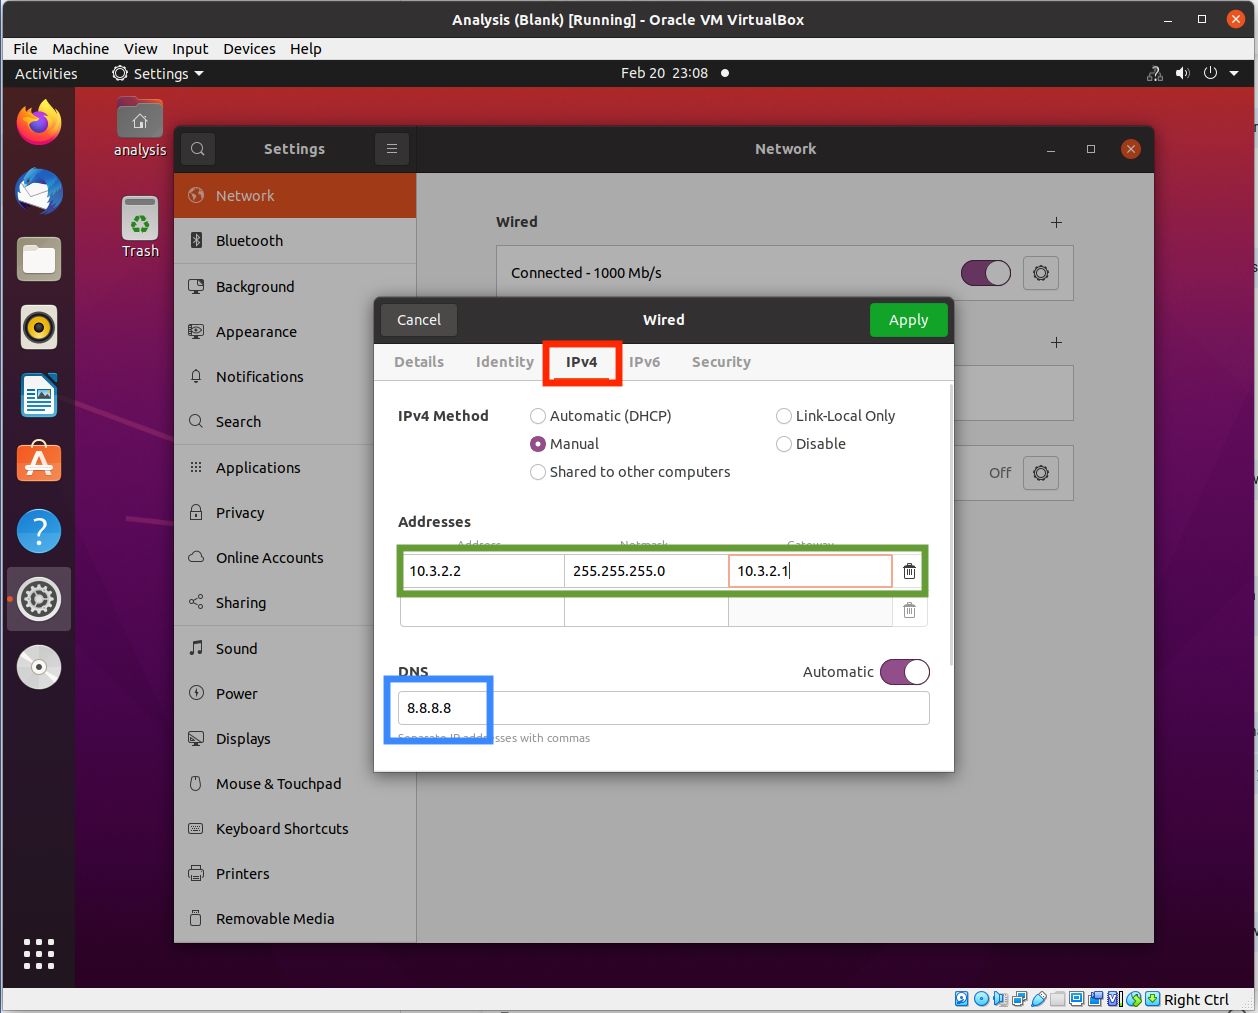
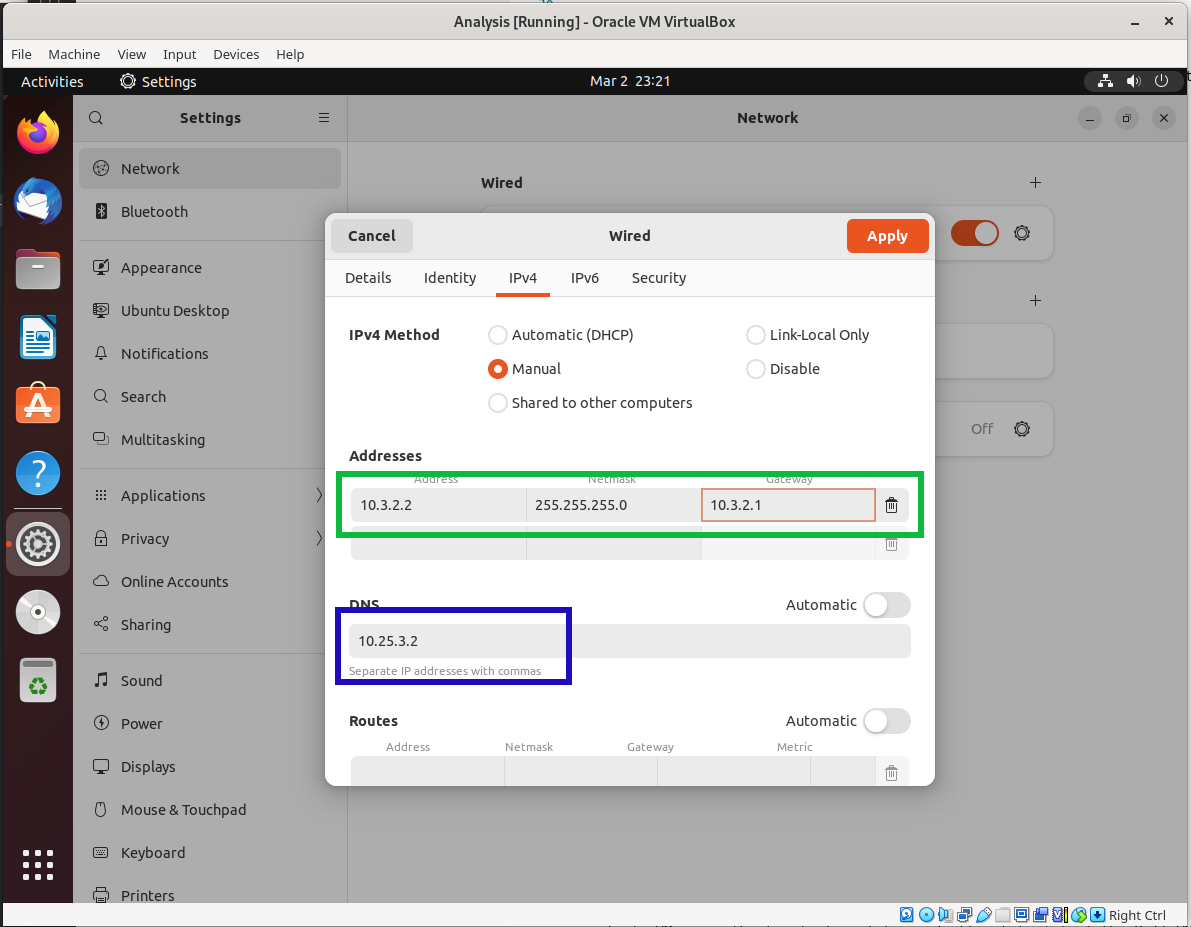
Update Network Lab Configuration to use UC's DNS servers.

diff --git a/NetworkLabConfiguration/LabConfiguration.md b/NetworkLabConfiguration/LabConfiguration.md
@@ -54,11 +54,13 @@ Click on the gear icon next to the label _Connected - 1000 Mbps_ (indicated in r
 
 ![TODO](./images/ubuntunetworksettings.png)
 
-Click on the _IPv4_ tab (indicated in red in the following image). In the _Addresses_ section, make the IP address be 10.3.2.2, the netmask be 255.255.255.0 and the gateway be 10.3.2.1 (indicated in green in the following image). Finally, set 8.8.8.8 as the DNS server (indicated in blue in the following image). When you are done, press _Apply_ (the green button in the upper-right portion of the screen). 
+Click on the _IPv4_ tab (indicated in red in the following image). In the _Addresses_ section, make the IP address be 10.3.2.2, the netmask be 255.255.255.0 and the gateway be 10.3.2.1 (indicated in green in the following image). Finally, set 10.25.3.2 as the DNS server (indicated in blue in the following image). When you are done, press _Apply_ (the green button in the upper-right portion of the screen). 
 
 ![TODO](./images/ubuntunetworkipv4.png)
 
-Setting the values the way that we did above will assign the analysis machine the 10.3.2.2 IPv4 address on the 10.3.2.0/24 network. It will set the analysis VM's router to 10.3.2.1, the Kali VM (we will configure the Kali VM next). These settings configure the Kali VM to use Google's anycast server at 8.8.8.8 to perform DNS resolution.
+Setting the values the way that we did above will assign the analysis machine the 10.3.2.2 IPv4 address on the 10.3.2.0/24 network. It will set the analysis VM's router to 10.3.2.1, the Kali VM (we will configure the Kali VM next). These settings configure the analysis VM to use UC's internal DNS server.
+
+> Note: Using UC's internal DNS server means that this configuration will only work when you are on campus. To use the configuration off campus, you should change the DNS server setting to the IP address of a different DNS server (8.8.8.8 is a good choice!).
 
 ### Configuring The VMs: Kali VM
 
